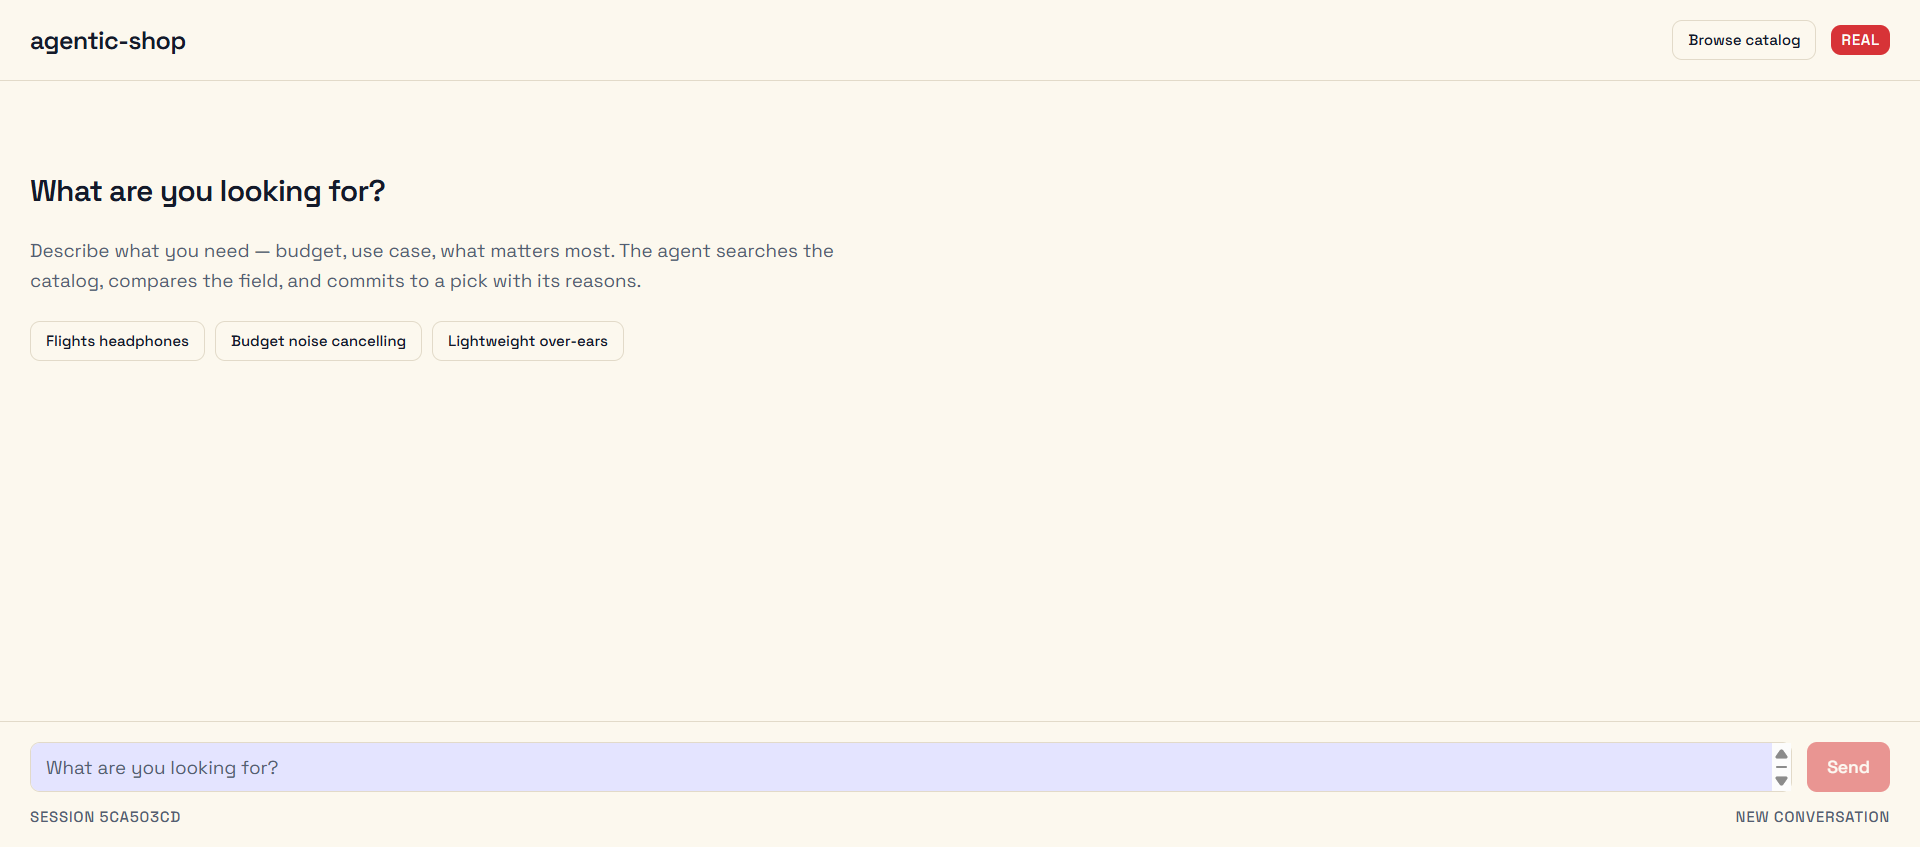
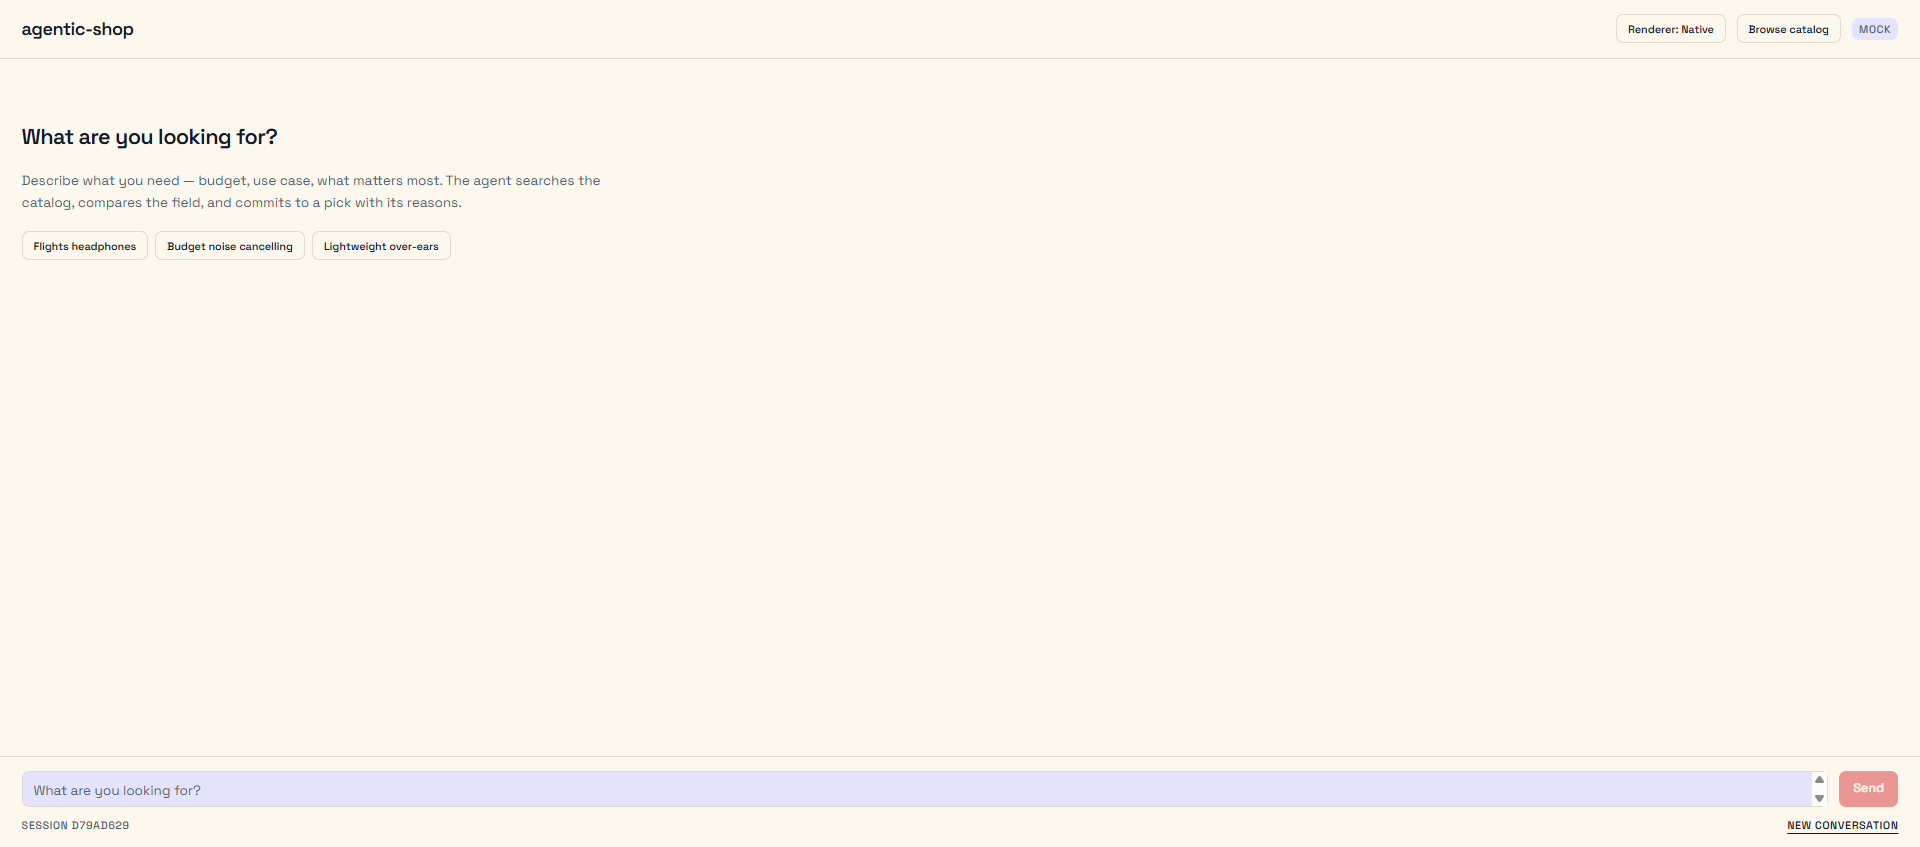
docs(readme): second-act refresh — judgment layer, A2UI projection, registry v1.1, optimistic cart

diff --git a/README.md b/README.md
@@ -7,7 +7,8 @@
   <img alt="Pydantic v2" src="https://img.shields.io/badge/Pydantic%20v2-E92063?logo=pydantic&logoColor=white&style=flat-square">
   <img alt="Next.js" src="https://img.shields.io/badge/Next.js%2016-000000?logo=next.js&logoColor=white&style=flat-square">
   <img alt="React 19" src="https://img.shields.io/badge/React%2019-61DAFB?logo=react&logoColor=black&style=flat-square">
-  <img alt="tests" src="https://img.shields.io/badge/tests-391%20passing-3DDC84?style=flat-square">
+  <img alt="A2UI" src="https://img.shields.io/badge/A2UI%20v0.9-projection-4285F4?style=flat-square">
+  <img alt="tests" src="https://img.shields.io/badge/tests-504%20passing-3DDC84?style=flat-square">
   <a href="https://github.com/Zahrannnn/agentic-shop/pull/1"><img alt="phase 1" src="https://img.shields.io/badge/phase%201-backend-8A2BE2?style=flat-square"></a>
   <a href="https://github.com/Zahrannnn/agentic-shop/pull/4"><img alt="phase 2" src="https://img.shields.io/badge/phase%202-frontend-FF6F61?style=flat-square"></a>
 </p>
@@ -21,17 +22,26 @@ pipeline searches a curated catalog, ranks products with a deterministic scorer,
 streams back an answer plus a validated UI plan that the client renders as grids,
 comparisons, and cart views.
 
+The second act is where it got interesting. A judgment layer (TypeSafe Jev) grades
+your stated priorities on typed rubrics before they become ranking weights. Every
+turn is also projected onto Google's A2UI v0.9 protocol and rendered side by side
+with the native stack. The plan registry grew real interactivity: refine chips on
+grids, quantity steppers on carts, a multi-select "what matters to you" ask. And
+cart taps stopped waiting for the agent — a direct `PATCH /api/cart` mutates the
+checkpoint and the table updates in the same frame, no streamed turn, no spinner.
+
 I built it to learn the agentic frontend patterns end to end: planning with GitHub
 Spec Kit, a Python/LangGraph backend, a Next.js renderer, and the contract between
 them. Every feature went through a spec → plan → tasks → implement cycle, and both
-suites (391 tests) run offline in mock mode.
+suites (504 tests) run offline in mock mode.
 
 > [!TIP]
-> Everything runs **keyless and offline** in mock mode: the full agent pipeline, the
-> SSE API, the frontend, and the whole test suite. Drop in an OpenCode Zen model when
-> you want a real LLM.
+> Everything runs **keyless and offline** in mock mode: the full agent pipeline,
+> the judgment layer, the A2UI projection, the SSE API, the frontend, and the whole
+> test suite. Drop in a real model (Z.ai coding plan, OpenCode Zen, any
+> OpenAI-compatible gateway) when you want it live.
 
-**Explore:** [Quickstart](#quickstart) · [Architecture](#architecture) · [System design](#system-design) · [Try the MVP scenario](#try-the-mvp-scenario) · [Design system](#design-system) · [Real model](#use-a-real-model)
+**Explore:** [Quickstart](#quickstart) · [Architecture](#how-it-works) · [System design](#system-design) · [Try the MVP scenario](#try-the-mvp-scenario) · [Design system](#design-system) · [Real model](#use-a-real-model)
 
 ---
 
@@ -40,13 +50,14 @@ suites (391 tests) run offline in mock mode.
 | | |
 |---|---|
 | ![The storefront](docs/screenshots/shop-empty.png) | ![Recommendation turn](docs/screenshots/shop-recommendation.png) |
-| The storefront: light "Curator's Desk" surface, suggestion chips, Browse catalog, REAL/MOCK badge | Recommendation turn: streamed reasoning, ranked ecommerce cards with prices and ANC badges |
+| The storefront: light "Curator's Desk" surface, suggestion chips, renderer toggle, REAL/MOCK badge | Recommendation turn: streamed answer, ranked cards, and refine chips that re-sort the field without a new question |
 | ![Comparison](docs/screenshots/shop-compare.png) | ![Details](docs/screenshots/shop-details.png) |
-| Comparison arena: spec scoreboard with win counts and Best cells, values straight from the catalog | Details: full catalog snapshot card with reviewer quotes |
-| ![Catalog sheet](docs/screenshots/shop-catalog-sheet.png) | |
-| Catalog sheet: browse all 38 products, one tap asks the agent | |
+| Comparison arena: spec scoreboard with best-cell highlights, values straight from the catalog | Details evidence card: reviewer score meters you can hover to reveal the exact quotes behind them |
+| ![Cart](docs/screenshots/shop-cart.png) | ![Catalog sheet](docs/screenshots/shop-catalog-sheet.png) |
+| Cart view: quantity steppers patch the checkpoint directly — counts and total update instantly | Catalog sheet: browse all 38 products, one tap asks the agent |
 
-Full-width layout, sticky composer, thinking skeletons while the model works, and a
+Full-width layout, sticky composer, a live stage trail while the model works
+(*searching → 38 candidates → researching → ranking → building UI*), and a
 REAL/MOCK mode badge. The transcript is the only navigation.
 
 > [!TIP]
@@ -61,40 +72,62 @@ REAL/MOCK mode badge. The transcript is the only navigation.
 ```mermaid
 flowchart LR
     U["🛍 Shopper"] -->|"natural language"| API["POST /api/chat<br/>SSE stream"]
+    U -->|"widget taps"| PATCH["PATCH /api/cart<br/>no turn, no model"]
+    PATCH -.->|"read · mutate<br/>checkpoint"| G
     API --> G
 
     subgraph G["LangGraph pipeline (thread_id = session)"]
         direction LR
-        I["intent"] --> CG{"clarify_gate<br/>(rule-based)"}
+        I["intent<br/>(+ Jev grades)"] --> CG{"clarify_gate<br/>(rule-based)"}
         CG -->|"ask"| QA["ui_agent_ask"]
+        CG -->|"priorities"| QP["ui_agent_ask_priorities"]
         CG -->|"proceed"| S["search"] --> RES["research"] --> REC["recommend"] --> UP["ui_plan"] --> R["respond"]
     end
 
     S -.->|"filter"| C[("curated catalog<br/>38 products")]
     REC -.->|"weights → score"| P["pure scorer<br/>Σ weightᵢ × attrᵢ"]
-    UP -.->|"validate"| D["UI plan DSL<br/>Pydantic"]
+    UP -.->|"validate"| D["UI plan DSL<br/>registry v1.1"]
+    UP -.->|"project"| A["A2UI v0.9<br/>messages"]
     RES -->|"narrate"| LLM["LLM behind factory<br/>(env-configured · mock mode)"]
 
-    API -->|"status · message_delta ·<br/>ui_update · turn_end"| U
+    API -->|"status · message_delta · ui_update ·<br/>a2ui_update · turn_end"| U
+    PATCH -->|"re-rendered plan"| U
 ```
 
 A few decisions I care about here:
 
 **The LLM never decides order.** It maps your stated priorities to attribute weights;
 a pure, unit-tested scorer computes the ranking. Same input, same ranking, every time
-(byte-identical in mock mode).
+(byte-identical in mock mode). With the judgment layer on (`JEV_MODE=real`), those
+priorities are first graded on typed 0–10 rubrics by TypeSafe Jev — calibrated
+probabilities, not free-text vibes — and a low-confidence category choice falls back
+to the rule-based clarify gate.
 
-**Plans are data, not code.** Every turn ends with one validated UI plan document. The
-backend rejects unknown component types, foreign product ids, and out-of-bounds lists
-before anything reaches the wire, so the client never renders a broken plan.
+**Plans are data, not code.** Every turn ends with one validated UI plan document.
+The registry is at 7 component types and 9 action kinds; the backend rejects unknown
+component types, foreign product ids, out-of-bounds lists, and malformed action
+payloads before anything reaches the wire, so the client never renders a broken plan.
+
+**The same plan speaks two protocols.** Every validated plan is additionally
+transpiled to A2UI v0.9 messages and streamed as an optional `a2ui_update` frame
+(clients that don't know A2UI just ignore it). A header toggle renders both stacks
+side by side; the native plan stays the source of truth.
+
+**The cart doesn't wait for the agent.** Stepper taps go straight to
+`PATCH /api/cart`, which mutates the LangGraph checkpoint and returns the
+authoritative re-rendered plan. The client applies the change optimistically and
+reverts if the patch fails — conversational edits like *"set the second one to 3"*
+still ride the full pipeline.
 
 **Failures degrade on contract.** Schema failures retry once with the validation error
 fed back to the model, then a single clean `error` event ends the turn. You never see
 raw model output.
 
 The clarify gate is a rule table, not a model judgment: unknown category gets one chip
-question (never twice in a row), a missing budget proceeds with a stated $250 cap, and
-impossible constraints get the closest matches with the trade-off honestly flagged.
+question (never twice in a row), abstract priorities get a multi-select ask
+(*"which of these matter: noise cancellation, comfort, battery…?"*), a missing budget
+proceeds with a stated $250 cap, and impossible constraints get the closest matches
+with the trade-off honestly flagged.
 
 ## Quickstart
 
@@ -104,13 +137,13 @@ Node 22 and npm. No API key needed for mock mode.
 ```bash
 git clone https://github.com/Zahrannnn/agentic-shop && cd agentic-shop
 
-# backend: agent pipeline + SSE API (224 tests, fully offline)
+# backend: agent pipeline + SSE API (291 tests, fully offline)
 cd backend
 uv sync
 uv run pytest
 uv run uvicorn app.main:app --reload   # LLM_MODE=mock is the default
 
-# frontend: transcript UI + plan renderer (167 tests)
+# frontend: transcript UI + plan renderer (213 tests)
 cd ../frontend
 npm install
 npm run verify                         # lint + typecheck + vitest + build
@@ -118,7 +151,7 @@ npm run dev                            # http://localhost:3000/shop
 ```
 
 CORS is pre-wired for the Next.js dev ports, and the shop page shows a MOCK/REAL
-badge from the backend's `/health`.
+badge from the backend's `/health` (which also reports the judgment-layer mode).
 
 > [!NOTE]
 > Longer walkthroughs: [backend quickstart](specs/001-backend-agent-scaffold/quickstart.md)
@@ -138,15 +171,24 @@ event: status        data: {"stage":"intent_parsed"}
 event: message_delta data: {"text":"Aurora Hush Pro ($179): adaptive ANC rated 4.9/5..."}
 ...
 event: ui_update     data: {"planVersion":"1","root":{"type":"product_grid",...}}
+event: a2ui_update   data: {"messages":[{"version":"v0.9",...}]}
 event: turn_end      data: {}
 ```
 
 Then, in the same session: *"compare the first two"* gives you a comparison table,
-*"add the first one to my cart"* gives you a cart view. The whole search → refine →
-compare → recommend → cart loop stays inside the transcript.
+*"add the first one to my cart"* gives you a cart view, the refine chips re-run the
+search inside the same turn's anchor, and the steppers go through the direct path:
 
-Prefer clicking? `npm run dev` in `frontend/`, open `http://localhost:3000/shop`, and
-run the same scenario with the suggestion chips.
+```bash
+curl -X PATCH http://127.0.0.1:8000/api/cart \
+  -H "Content-Type: application/json" \
+  -d '{"session_id":"demo-12345","product_id":"aurora-hush-pro","quantity":3}'
+```
+
+No streamed turn, no model call — just the mutated checkpoint and the re-rendered
+cart. The whole search → refine → compare → recommend → cart loop stays inside the
+transcript. Prefer clicking? `npm run dev` in `frontend/`, open
+`http://localhost:3000/shop`, and run the same scenario with the suggestion chips.
 
 ## Design system
 
@@ -162,49 +204,73 @@ hero-metric template.
 ## Use a real model
 
 All model access is env-configured behind `backend/app/llm/client.py`, so swapping
-models is a `.env` change. A free example on [OpenCode Zen](https://opencode.ai/docs/zen/):
+models is a `.env` change. Two transports ship: any OpenAI-compatible gateway
+(`LLM_SDK=openai`, the default) and Z.ai's official SDK (`LLM_SDK=zai`, structured
+output pinned to function calling). What I actually run it on — a Z.ai coding plan:
 
 ```bash
 LLM_MODE=real
+LLM_SDK=zai
+LLM_MODEL=glm-5.3-flash
+OPENCODE_BASE_URL=https://api.z.ai/api/coding/paas/v4
+OPENCODE_API_KEY=<your-key>
+```
+
+A free OpenCode Zen example:
+
+```bash
+LLM_MODE=real
+LLM_SDK=openai
 LLM_MODEL=muse-spark-1.2-contributor-free
-OPENCODE_BASE_URL=https://opencode.ai/docs/zen/
 OPENCODE_BASE_URL=https://opencode.ai/zen/v1
 OPENCODE_API_KEY=<your-key>
 LLM_API_STYLE=responses        # muse is a Responses-API-only reasoning model
 ```
 
+The judgment layer has its own switch and its own key, off by default:
+
+```bash
+JEV_MODE=real                  # off | mock | real
+JEV_API_KEY=<your-typesafe-key>
+```
+
 > [!IMPORTANT]
 > Never commit `.env` or any key. The structured-output wrapper falls back to
-> schema-in-prompt JSON mode for models that reject strict schemas (muse is one), so
-> swapping providers stays a config change.
+> schema-in-prompt JSON mode for models that reject strict schemas, and the Z.ai
+> transport pins function calling — swapping providers stays a config change.
 
 ## Project structure
 
 ```text
 ├── PRD.md                             product requirements (v0.1 MVP)
-├── DECISIONS.md                       locked architecture decisions (binding, D1–D8)
+├── DECISIONS.md                       locked architecture decisions (binding, D1–D12)
 ├── AGENTS.md                          crew guide for coding agents
 ├── PRODUCT.md / DESIGN.md             design context (Curator's Desk system)
 ├── FRONTEND_GUIDE.md                  agent-ready backend contract for FE implementers
 ├── specs/001-backend-agent-scaffold/  backend spec · research · plan · contracts · tasks
 ├── specs/002-frontend-ui-renderer/    frontend spec · research · plan · data-model · tasks
+├── specs/003-jev-and-a2ui/            judgment layer + A2UI projection (D9–D10)
+├── specs/004-interactive-registry/    registry v1.1: refine bar, steppers, multi-picker (D11)
+├── specs/005-optimistic-cart/         PATCH /api/cart + instant client updates (D12)
 ├── docs/screenshots/                  the app in action (light Curator's Desk)
 ├── .specify/                          GitHub Spec Kit (constitution, templates)
 ├── backend/                           detailed guide: backend/README.md
-│   ├── app/llm/          model factory · mock mode · structured-output wrapper
+│   ├── app/llm/          model factory · Z.ai SDK transport · Jev judgment client · mocks
 │   ├── app/catalog/      curated dataset · Pydantic models · loader
 │   ├── app/ranking/      the pure deterministic scorer
 │   ├── app/tools/        search · pre-scored research · mock cart
 │   ├── app/graph/        state · nodes · followups · builder (MemorySaver)
-│   ├── app/dsl/          UI plan schemas · validation
-│   ├── app/api/          /health · /api/chat (SSE)
-│   ├── fixtures/ui-plans/  shared plan contract corpus
-│   └── tests/            224 tests: scorer, tools, DSL, SSE contract, graph, config
+│   ├── app/dsl/          UI plan registry v1.1 · payload validation
+│   ├── app/a2ui/         plan → A2UI v0.9 transpiler + golden fixtures
+│   ├── app/api/          /health · /api/chat (SSE) · PATCH /api/cart
+│   ├── fixtures/         shared plan corpus + A2UI goldens
+│   └── tests/            291 tests: scorer, tools, DSL, A2UI, SSE contract, graph, cart API
 └── frontend/            detailed guide: frontend/README.md (Next.js 16 · React 19 · Tailwind v4)
     ├── src/features/shopping/   the whole feature: api/ (SSE client, frame parser),
-    │                            hooks/ (use-agent-turn), store/ (RTK slices),
-    │                            validations/ (Zod plan mirror), components/ (renderer
-    │                            registry + transcript UI), utils/
+    │                            hooks/ (use-agent-turn: streaming + optimistic patch),
+    │                            store/ (RTK slices), validations/ (Zod mirrors of the
+    │                            plan DSL + A2UI wire), components/ (renderer registry
+    │                            + transcript UI)
     ├── src/components/ui/       shadcn primitives (theme = Curator's Desk tokens)
     ├── src/shared/              env config · store composition · providers
     └── ...                      vitest setup, husky, Docker/CI infra
@@ -236,5 +302,6 @@ npm run verify        # eslint + tsc --noEmit + vitest + next build
 - **Design**: frontend work follows `PRODUCT.md` + `DESIGN.md` (warm cream palette,
   one coral accent, editorial type, the named anti-slop bans).
 - **Commits**: Conventional Commits, small focused PRs (PR template included).
-- **Next up**: more catalog categories, richer comparison state, and eventually real
-  product APIs. The full deferred list lives in `DECISIONS.md`.
+- **Next up**: more judgment-layer targets (clarify-gate decisions, follow-up
+  disambiguation), more catalog categories, richer comparison state, and eventually
+  real product APIs. The full deferred list lives in `DECISIONS.md`.
